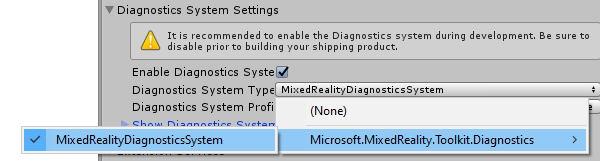
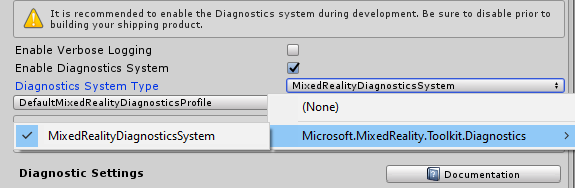
Added docs for logging as well

diff --git a/Documentation/Contributing/CodingGuidelines.md b/Documentation/Contributing/CodingGuidelines.md
@@ -181,6 +181,29 @@ In the example below, the *MyNewService | MyNewProvider* should be filled with t
 public class MyNewProfile : ScriptableObject
 ```
 
+### Logging
+
+When adding new features or updating existing features, consider adding DebugUtilities.LogVerbose
+logs to interesting code that may be useful for future debugging. There's a tradeoff here between
+adding logging and the added noise and not enough logging (which makes diagnosis difficult).
+
+An interesting example where having logging is useful (along with interesting payload):
+
+```c#
+DebugUtilities.LogVerboseFormat("RaiseSourceDetected: Source ID: {0}, Source Type: {1}", source.SourceId, source.SourceType);
+```
+
+This type of logging can help catch issues like https://github.com/microsoft/MixedRealityToolkit-Unity/issues/8016,
+which were caused by mismatched source detected and source lost events.
+
+Avoid adding logs for data and events that are occurring on every frame - ideally logging should
+cover "interesting" events driven by distinct user inputs (i.e. a "click" by a user and the set of
+changes and events that come from that are interesting to log). The ongoing state of "user is still
+holding a gesture" logged every frame is not interesting and will overwhelm the logs.
+
+Note that this verbose logging is not turned on by default (it must be enabled in the
+[Diagnostic System settings]((../Diagnostics/ConfiguringDiagnostics.md#enable-verbose-logging)))
+
 ### Spaces vs tabs
 
 Please be sure to use 4 spaces instead of tabs when contributing to this project.

diff --git a/Documentation/Diagnostics/DiagnosticsSystemGettingStarted.md b/Documentation/Diagnostics/DiagnosticsSystemGettingStarted.md
@@ -25,9 +25,6 @@ The following steps presume use of the MixedRealityToolkit object. Steps require
     ![MRTK Configured Scene Hierarchy](../../Documentation/Images/MRTK_ConfiguredHierarchy.png)
 
 1. Navigate the Inspector panel to the Diagnostics System section and check Enable
-
-    ![Enable the Diagnostics System](../../Documentation/Images/Diagnostics/MRTKConfig_Diagnostics.png)
-
 1. Select the Diagnostics System implementation
 
     ![Select the Diagnostics System Implementation](../../Documentation/Images/Diagnostics/DiagnosticsSelectSystemType.png)
@@ -38,8 +35,6 @@ The following steps presume use of the MixedRealityToolkit object. Steps require
 ### Configure diagnostic options
 
 The diagnostics system uses a configuration profile to specify which components are to be displayed and to configure their settings. Please see [Configuring the Diagnostics System](ConfiguringDiagnostics.md) for more information pertaining to the available component settings.
-
-![Diagnostics Options](../../Documentation/Images/Diagnostics/DiagnosticsProfile.png)
 
 > [!IMPORTANT]
 > While it is possible to use Unity's Play Mode while developing applications without requiring the build and deploy steps, it is important to evaluate the diagnostics system results using a compiled application running on the target hardware and platform.

diff --git a/Documentation/Diagnostics/ConfiguringDiagnostics.md b/Documentation/Diagnostics/ConfiguringDiagnostics.md
@@ -4,6 +4,17 @@
 
 ![Diagnostics General Settings](../../Documentation/Images/Diagnostics/DiagnosticsGeneralSettings.png)
 
+### Enable verbose logging
+
+Indicates whether or not verbose MRTK logging will be enabled. This defaults to false, but can be
+turned on to take detailed traces that allow the MRTK team to debug/dig into issues. For example,
+when filing an issue, attaching the Unity player logs (either from the editor or from the player)
+can help narrow down the source of bugs and issues.
+
+Note that this option is independent of whether or not diagnostics system is enabled - this shows
+up under the diagnostics system because it's a logging option, but ultimately operates at a higher
+level because it affects logging across the entire MRTK codebase.
+
 ### Show diagnostics
 
 Indicates whether or not the diagnostics system is to display the configured diagnostic options.
